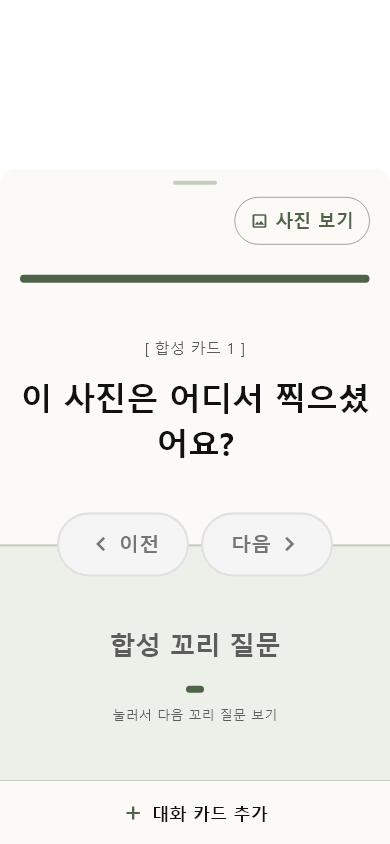
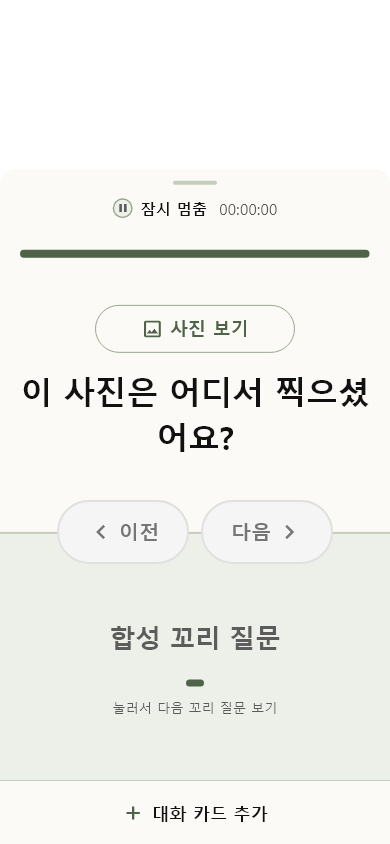
docs(app): 사진 보기 버튼의 새 자리와 캡처를 README와 디자인 문서에 적는다

diff --git a/app/README.md b/app/README.md
@@ -212,7 +212,7 @@ SAEROK_TEST_DATABASE_URL=postgresql://<생성과 삭제가 허용된 테스트 D
 | `/album/new` | 이야기 추가하기. 분류, 제목(100자 이하), 내용, 기본 그림 다섯 장 중 하나. 그림은 하나를 무작위로 미리 고른다. 쓰던 내용이 있으면 뒤로 갈 때 묻는다. 내용 글자 수는 앱이 막지 않는다. 서버(#282, 11/9 14:42 KST 승인 배포부터 운영)는 내용이 5,000자를 넘으면 422 `INVALID_REQUEST`, 프로필의 이야기가 이미 300개면 409 `LIFE_FACT_LIMIT_EXCEEDED`로 거절하고, 앱은 둘 다 `처리하지 못했어요. 잠시 뒤 다시 시도해주세요.`를 보여 준다. 422 `INVALID_REQUEST`는 [새 버전 확인](#업데이트가-필요하다는-안내)도 부른다 | 설계 없음 |
 | `/album/edit/:storyId` | 이야기 수정하기. 추가와 같은 화면이며 분류를 바꾸면 새 분류의 목차 위에서 다시 연다. 앱은 고칠 때마다 내용을 함께 보내고, 서버(#282, 11/9 14:42 KST 승인 배포부터 운영)는 내용이 5,000자를 넘으면 422 `INVALID_REQUEST`로 거절한다. 앱은 `처리하지 못했어요. 잠시 뒤 다시 시도해주세요.`를 보여 주며 [새 버전 확인](#업데이트가-필요하다는-안내)도 부른다 | 설계 없음 |
 
-면회 중 카드 E-3, E-4는 녹음 화면의 팝업이다. 사진에서 나온 카드는 시트 상단에 `사진 보기` 버튼을 둔다. 질문 영역에 작은 사진을 끼워 넣지 않고 전체 화면에서 확인한다. 사진 버튼은 질문 스크롤 밖에 남으며, 높이가 부족하거나 글자가 커지면 질문과 카드 이동 버튼 영역을 스크롤한다. 사진 주소는 면회 동안 녹음 화면이 들고 있어 시트를 여닫을 때마다 다시 읽지 않고, 만료 전에 새로 받는다(위 `/cards`). 녹음 화면 위쪽의 녹음 상태(제목, 시간, 원, `잠시 멈춤`과 `만남 끝내기`)가 쓸 높이는 글자 크기와 폭으로 재고, 아래 카드 자리는 남는 높이만 받는다(최소 200). 상태가 다 들어가지 않으면 여백을 줄이고 마이크 원을 112에서 64까지 줄인다. 누르는 버튼(64)은 줄이지 않는다. 컨트롤 이름이 반쪽 폭에 한 줄로 들어가지 않으면 띄어쓰기에서 두 줄로 나눈다(`이어서` / `녹음`). 예전에는 상태 높이를 410으로 못 박아 360x640에서는 기본 글자에서도, 390x844에서는 글자 1.3배에서 컨트롤 이름이 상태 창 아래에 잘렸고, 360dp 글자 2.0배에서는 옆으로 넘쳤다(2026-11-10 리뷰). 지금은 360x640과 390x844 모두 글자 1.5배까지는 스크롤 없이 다 보이고(상태 표시줄 24, 아래 손짓 막대 16, 맑은 고딕으로 그린 캡처 기준), 글자 2.0배에서는 상태 창을 내려야 이름까지 보인다. `test/large_text_clipping_test.dart`가 360x640과 390x844의 글자 1.0, 1.3배와 2.0배를 확인한다. 아래 `위로 올려서 대화 카드 꺼내기` 띠도 글자 2.0배에서 두 줄이 되면 위로 자란다(예전에는 높이를 못 박아 30 넘쳐 잘렸다). 녹음 화면 아래 카드 자리를 위로 끌면 시트가 손가락을 따라 올라온다. 손을 뗐을 때 시트의 3할보다 많이 올라왔거나 위로 빠르게 그었으면(초당 700px) 끝까지 열리고, 아니면 다시 내려간다. 눌러서 열 수도 있고 화면 낭독기는 `대화 카드 꺼내기` 버튼으로 연다. 시트를 띄우면 Flutter가 진행 중인 손가락 입력을 끊으므로, 끄는 동안에는 녹음 화면 위에 같은 모양(`VisitCardsSheetPreview`)을 그리고 손을 떼면 그 높이에서 진짜 시트로 이어 받는다. 녹음을 시작한 뒤 만남을 끝내기 전(잠시 멈춤 포함)에 뒤로 가면 `녹음을 그만둘까요?` 확인 창을 띄운다(`그만두고 나가기` / `계속 녹음하기`, 바깥을 누르면 머문다). 나가면 녹음이 멈춘다. 같은 카드 묶음으로 회차를 다시 만들 수 없어(`CARD_SET_ALREADY_USED`) 녹음을 처음부터 다시 하거나 같은 파일에 이어 녹음하지는 못한다. 대신 카드 화면과 홈이 그 회차의 `평가 이어서 하기`를 보여주고, 누르면 그 회차의 소감과 평가로 간다(#244, 아래 [면회 녹음](#면회-녹음)). 나간 뒤 사진 화면에서 다시 시작하거나 만남을 끝낸 뒤 소감 화면에서 뒤로 오면 녹음 화면은 `이어서 녹음` 대신 `이미 끝낸 면회예요`를 보여주고, 그때 뒤로 가면 묻지 않고 나간다([녹음 파일을 닫은 뒤 다시 들어올 때](#녹음-파일을-닫은-뒤-다시-들어올-때)).
+면회 중 카드 E-3, E-4는 녹음 화면의 팝업이다. 사진에서 나온 카드는 메인 질문 위의 카드 제목(`[ 국수에 곁들인 김치 ]`처럼 AI가 사진을 보고 붙인 말)을 빼고 그 자리에 `사진 보기` 버튼을 둔다(2026-11-11). 사진을 보면 무엇인지 알 수 있어 제목이 같은 말을 되풀이하고, 사진을 잘못 읽은 제목이 면회 중에 보이지 않게 하려는 것이다. 사진이 없는 카드와 카드 고르기, 카드 추가 목록은 제목을 그대로 둔다. 버튼은 질문 가운데 정렬에 최소 200 x 48, 글자는 다른 버튼과 같은 18이고 아이콘은 글자 크기를 따라 커진다. 질문 영역에 작은 사진을 끼워 넣지 않고 전체 화면에서 확인한다. 예전에는 버튼이 카드 막대 위에 따로 한 줄을 차지해 사진 카드와 아닌 카드를 넘길 때 카드 막대가 오르내렸고, 질문을 스크롤해도 버튼이 남았다. 지금은 버튼이 질문과 함께 스크롤되며, 질문 칸 맨 위에 있어 열었을 때 바로 보인다. 높이가 부족하거나 글자가 커지면 질문과 카드 이동 버튼 영역을 스크롤한다. 사진 주소는 면회 동안 녹음 화면이 들고 있어 시트를 여닫을 때마다 다시 읽지 않고, 만료 전에 새로 받는다(위 `/cards`). 녹음 화면 위쪽의 녹음 상태(제목, 시간, 원, `잠시 멈춤`과 `만남 끝내기`)가 쓸 높이는 글자 크기와 폭으로 재고, 아래 카드 자리는 남는 높이만 받는다(최소 200). 상태가 다 들어가지 않으면 여백을 줄이고 마이크 원을 112에서 64까지 줄인다. 누르는 버튼(64)은 줄이지 않는다. 컨트롤 이름이 반쪽 폭에 한 줄로 들어가지 않으면 띄어쓰기에서 두 줄로 나눈다(`이어서` / `녹음`). 예전에는 상태 높이를 410으로 못 박아 360x640에서는 기본 글자에서도, 390x844에서는 글자 1.3배에서 컨트롤 이름이 상태 창 아래에 잘렸고, 360dp 글자 2.0배에서는 옆으로 넘쳤다(2026-11-10 리뷰). 지금은 360x640과 390x844 모두 글자 1.5배까지는 스크롤 없이 다 보이고(상태 표시줄 24, 아래 손짓 막대 16, 맑은 고딕으로 그린 캡처 기준), 글자 2.0배에서는 상태 창을 내려야 이름까지 보인다. `test/large_text_clipping_test.dart`가 360x640과 390x844의 글자 1.0, 1.3배와 2.0배를 확인한다. 아래 `위로 올려서 대화 카드 꺼내기` 띠도 글자 2.0배에서 두 줄이 되면 위로 자란다(예전에는 높이를 못 박아 30 넘쳐 잘렸다). 녹음 화면 아래 카드 자리를 위로 끌면 시트가 손가락을 따라 올라온다. 손을 뗐을 때 시트의 3할보다 많이 올라왔거나 위로 빠르게 그었으면(초당 700px) 끝까지 열리고, 아니면 다시 내려간다. 눌러서 열 수도 있고 화면 낭독기는 `대화 카드 꺼내기` 버튼으로 연다. 시트를 띄우면 Flutter가 진행 중인 손가락 입력을 끊으므로, 끄는 동안에는 녹음 화면 위에 같은 모양(`VisitCardsSheetPreview`)을 그리고 손을 떼면 그 높이에서 진짜 시트로 이어 받는다. 녹음을 시작한 뒤 만남을 끝내기 전(잠시 멈춤 포함)에 뒤로 가면 `녹음을 그만둘까요?` 확인 창을 띄운다(`그만두고 나가기` / `계속 녹음하기`, 바깥을 누르면 머문다). 나가면 녹음이 멈춘다. 같은 카드 묶음으로 회차를 다시 만들 수 없어(`CARD_SET_ALREADY_USED`) 녹음을 처음부터 다시 하거나 같은 파일에 이어 녹음하지는 못한다. 대신 카드 화면과 홈이 그 회차의 `평가 이어서 하기`를 보여주고, 누르면 그 회차의 소감과 평가로 간다(#244, 아래 [면회 녹음](#면회-녹음)). 나간 뒤 사진 화면에서 다시 시작하거나 만남을 끝낸 뒤 소감 화면에서 뒤로 오면 녹음 화면은 `이어서 녹음` 대신 `이미 끝낸 면회예요`를 보여주고, 그때 뒤로 가면 묻지 않고 나간다([녹음 파일을 닫은 뒤 다시 들어올 때](#녹음-파일을-닫은-뒤-다시-들어올-때)).
 
 시트 맨 위 손잡이 바로 아래에는 녹음 상태와 시간을 한 줄로 둔다(아래 [녹음 중 표시](#녹음-중-표시)). 그 아래에 길이가 정해진 막대를 고른 카드 수만큼 나눠 둔다(칸 사이 6, 막대 높이 8, 누르는 자리 높이 48). 시트 손잡이와 헷갈리지 않게 녹음 표시 줄을 사이에 두어 손잡이에서 떨어뜨렸다. 번호 칩을 늘어놓았더니 화면이 요란해 막대로 바꿨다. 칸을 누르면 그 카드로 바로 가고, 지금 카드 칸만 초록(`HomeColors.accent`)이며 탄력 있게 6만큼 올라간다(0.65초, `ElasticOutCurve`). 다른 칸은 면회 중에 더한 카드까지 모두 연한 세이지(`HomeColors.bubbleLine`)이다. 색을 나누니 요란해 보여 하나로 맞췄다. 소제목과 메인 질문 묶음은 막대와 이전과 다음 버튼 사이의 가운데에 온다. `대화 카드 추가`에서 카드를 더하고 돌아오면 0.25초 뒤부터 0.11초 간격으로 새 칸이 하나씩 자라 들어오고, 그만큼 앞 칸들이 좁아진다. 추가 화면에 있는 동안에는 새 칸을 숨겨 두었다가 돌아온 뒤에 자라게 한다. 화면 낭독기는 칸을 `n번 카드`(더한 카드는 `, 추가한 카드`) 버튼으로 읽는다. 메인 질문을 옆으로 미는 동작은 50~60대에게 어려울 수 있어 두지 않고, 두 영역 경계에 `‹ 이전`(초록 테두리)과 `다음 ›`(초록 면) 알약 버튼(높이 64)을 나란히 둔다. 끝이 없이 돌아, 마지막 카드의 다음은 첫 카드, 첫 카드의 이전은 마지막 카드다. 카드가 한 장이면 둘 다 흐리게 둔다. 카드를 옮겨도 화면 상태만 바뀌고 서버에는 알리지 않는다. 아래 꼬리 질문을 누르면 앞 질문이 조금 왼쪽으로 밀리며 사라진 뒤 다음 질문이 오른쪽에서 들어온다(합쳐 0.4초). 두 질문이 함께 움직이면 글자가 겹쳐 어지러워 한 번에 하나만 보이게 했다. 아래 점은 지금 질문 자리만 길게 늘어난다. 꼬리 질문 칸은 옆으로 밀어도 넘어간다. 넘김 모양을 보고 PM이 밀어 봤는데 넘어가지 않아 2026-11-10에 더했다. 왼쪽으로 밀면 다음 질문, 오른쪽으로 밀면 앞 질문이며, 앞 질문으로 갈 때는 거꾸로 오른쪽으로 밀려 사라지고 왼쪽에서 들어온다. 첫 질문의 앞은 마지막 질문이다. 손가락을 댄 자리부터 옆으로 48 이상 끌었거나 옆으로 빠르게 그었을 때(초당 300px)만 넘기고, 위아래로 끄는 손길은 시트가 받아 내려 닫는다. 누르면 다음 질문으로 가는 동작과 안내 글 `눌러서 다음 꼬리 질문 보기`는 그대로 둔다. 화면 낭독기는 미는 손짓을 쓸 수 없어 꼬리 질문 칸의 동작 메뉴에 `다음 꼬리 질문`, `이전 꼬리 질문`을 둔다. 카드를 바꿀 때는 이 효과 없이 바로 바뀐다. 움직임 줄이기를 켜면 막대와 꼬리 질문 모두 바로 바뀐다. HOME과 HOME-1은 리포트 알림 유무, B-3의 녹음 완료와 B-4의 인식 실패는 음성 입력 상태, C-1 ~ C-3은 카드 펼침과 추가 상태를 나타낸다.
 
@@ -563,7 +563,7 @@ Google Cloud Console에 Application ID `app.saerok.android`와 디버그, 릴리
 
 ## 카드 근거 사진 확대
 
-- `evidenceSource: photo` 카드의 근거 `photoId` 중 현재 어르신의 사진 주소가 있는 첫 사진을 연다. 카드 선택과 카드 추가 목록에서는 작은 사진을 누르고, 면회 중 카드 시트에서는 상단 `사진 보기`를 누른다.
+- `evidenceSource: photo` 카드의 근거 `photoId` 중 현재 어르신의 사진 주소가 있는 첫 사진을 연다. 카드 선택과 카드 추가 목록에서는 작은 사진을 누르고, 면회 중 카드 시트에서는 카드 제목 자리의 `사진 보기`를 누른다.
 - 전체 화면에서 사진 비율을 유지하고 두 손가락으로 최대 4배 확대한다. 아래에는 카드의 메인 질문을 표시하며 긴 질문은 그 영역만 스크롤한다. 면회에서 열면 위에 현재 회차의 녹음 상태와 경과 시간을 표시한다.
 - 사진 화면을 열고 닫는 동작은 카드 선택이나 녹음기를 조작하지 않는다. 녹음 상태는 기존 컨트롤러 값을 표시한다. 실제 마이크 상태 감지와 백그라운드 녹음은 녹음 기능에서 처리한다.
 - 사진 목록을 읽는 중, 사진 누락, 사진 로딩 실패를 구분한다. `사진 다시 불러오기`는 주소 목록을 다시 받고 이미지를 다시 연다. 계정이나 선택한 어르신이 바뀌면 확대 사진을 가린다. `닫기`와 시스템 뒤로가기로 이전 화면에 복귀한다.

diff --git a/app/DESIGN.md b/app/DESIGN.md
@@ -314,7 +314,7 @@
 ## 접근성
 
 - 기준 화면은 412 x 917 dp 세로다. 고정 좌표에 의존하지 않는다. 화면 방향은 막지 않으며, 남는 높이에 맞춰 줄이는 그림이 알아볼 수 없을 만큼 작아지면 줄이지 않고 화면을 스크롤한다(일대기 표지, 2026-11-10 E2E).
-- 사진에서 나온 대화 카드는 목록에서 작은 사진을 눌러 크게 본다. 면회 카드 시트는 질문 영역 밖 상단에 높이 48 이상의 `사진 보기` 버튼을 둔다. 작은 화면과 큰 글자에서는 질문 영역을 스크롤한다. 확대 화면은 비율을 유지한 사진, 현재 회차의 녹음 상태와 시간, 메인 질문을 함께 보여준다. 긴 질문은 아래 질문 영역만 스크롤하고 `닫기`는 상단에 남긴다. 사진이 없거나 열리지 않아도 상태 안내와 다시 불러오기 버튼을 둔다. 색은 기존 오프화이트와 세이지를 사용한다.
+- 사진에서 나온 대화 카드는 목록에서 작은 사진을 눌러 크게 본다. 면회 카드 시트는 메인 질문 위 카드 제목을 빼고 그 자리에 `사진 보기` 버튼(최소 200 x 48, 진한 테두리 `#9AA68E`, 초록 글자 18과 아이콘, 질문과 간격 16)을 가운데에 둔다(2026-11-11). 작은 화면과 큰 글자에서는 질문 영역을 스크롤한다. 확대 화면은 비율을 유지한 사진, 현재 회차의 녹음 상태와 시간, 메인 질문을 함께 보여준다. 긴 질문은 아래 질문 영역만 스크롤하고 `닫기`는 상단에 남긴다. 사진이 없거나 열리지 않아도 상태 안내와 다시 불러오기 버튼을 둔다. 색은 기존 오프화이트와 세이지를 사용한다.
 - 시스템 글자 크기를 키워도 글자가 잘리거나 겹치지 않아야 한다. 높이를 고정한 상자 안에 긴 글을 넣지 않는다. 기본 정보의 고르는 칸(성별, `날짜로 입력`과 `나이로 입력`)은 최소 높이만 두고 글자와 함께 커진다. 입력 방식 두 칸은 글자가 1.5배를 넘으면 낱자에서 꺾이지 않게 위아래로 쌓는다. 입력칸의 오류 안내는 세 줄까지 줄을 바꾼다.
 - 글자와 배경의 대비는 **4.5:1 이상**을 지킨다. 이 문서의 색 표에 값이 적혀 있다.
 - 색만으로 상태를 알리지 않는다. 선택, 오류, 완료는 글자나 아이콘을 함께 쓴다.
